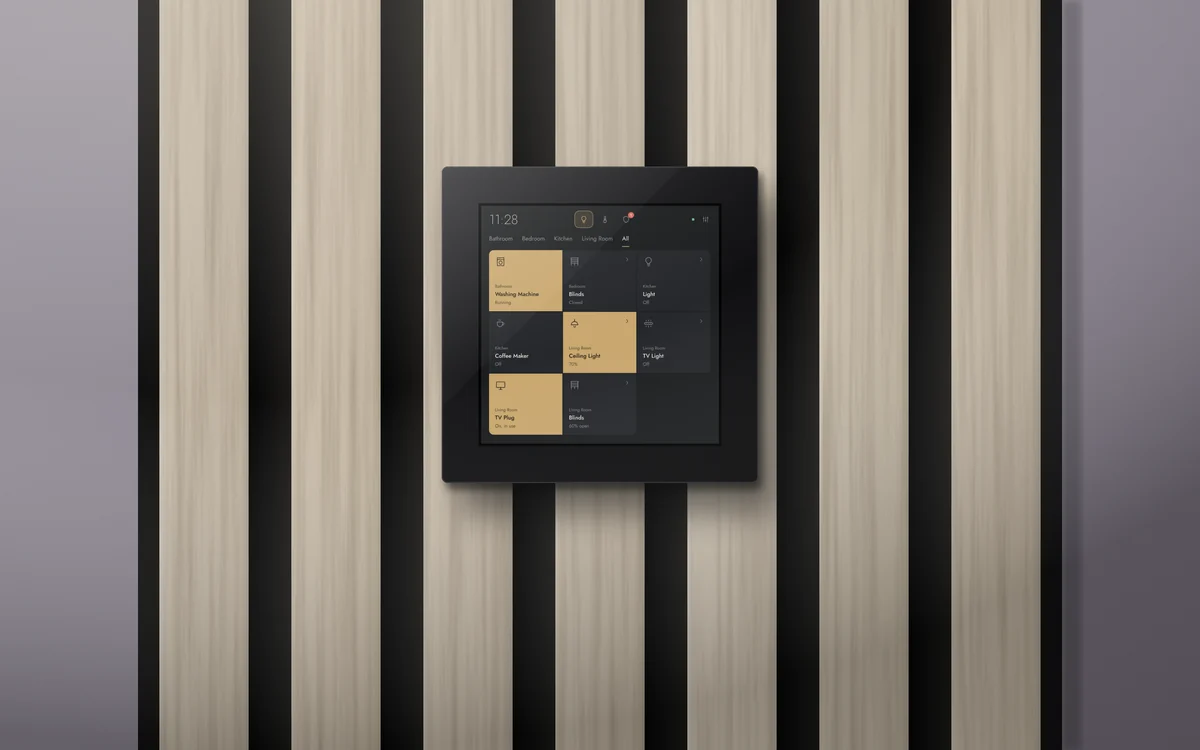
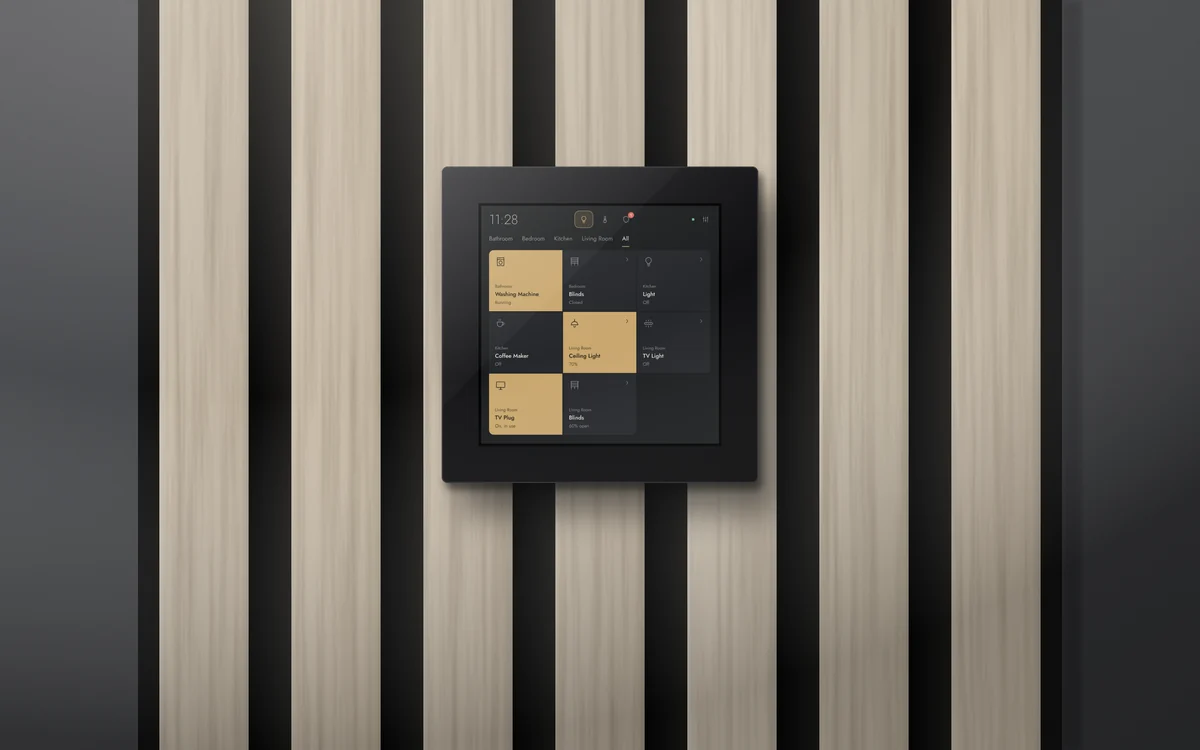
Mockup: dark grey wall instead of lilac
Claude-Session: https://claude.ai/code/session_01WHPo8hvJ6izD6joHabRdmz

Changed region(s): [[0.8633, 0.0, 1.0, 1.0], [0.0, 0.0, 0.1233, 1.0]]

diff --git a/tools/site-mockups/wall-hyperpixel-square.html b/tools/site-mockups/wall-hyperpixel-square.html
@@ -6,7 +6,7 @@
 <svg id="s" width="1600" height="1000" viewBox="0 0 1600 1000" xmlns="http://www.w3.org/2000/svg">
 <defs>
   <linearGradient id="wall" x1="0" y1="0" x2="1" y2="1">
-    <stop offset="0" stop-color="#a39ea6"/><stop offset=".55" stop-color="#8f8894"/><stop offset="1" stop-color="#776f7c"/>
+    <stop offset="0" stop-color="#55565a"/><stop offset=".55" stop-color="#434447"/><stop offset="1" stop-color="#333437"/>
   </linearGradient>
   <filter id="wallnoise" x="0" y="0" width="100%" height="100%">
     <feTurbulence type="fractalNoise" baseFrequency=".9" numOctaves="2" seed="3"/>
